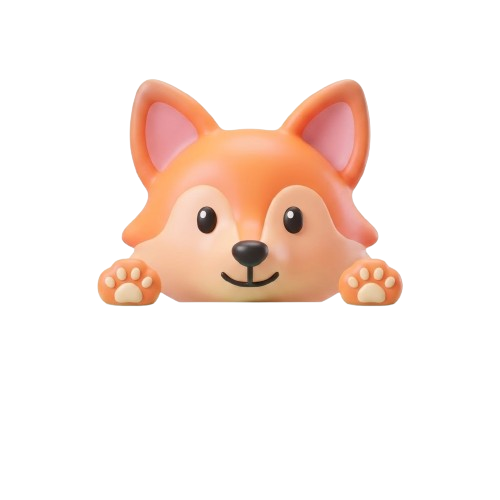
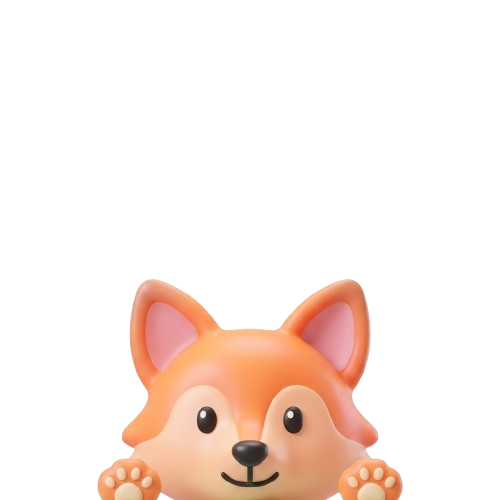
fixed navbar peeking images and height

diff --git a/src/components/BottomNav.tsx b/src/components/BottomNav.tsx
@@ -97,7 +97,7 @@ export const BottomNav = ({ active, onPress, avatar }: { active: TabKey; onPress
           position: 'absolute',
           left: 16,
           width: BUNNY_W,
-          bottom: SAFE + PILL_H - 16, 
+          bottom: SAFE + PILL_H - 4, 
           height: BUNNY_H,
           transform: [{ translateX: bunnyX }, { translateY: peekAnim }],
           zIndex: 5,
